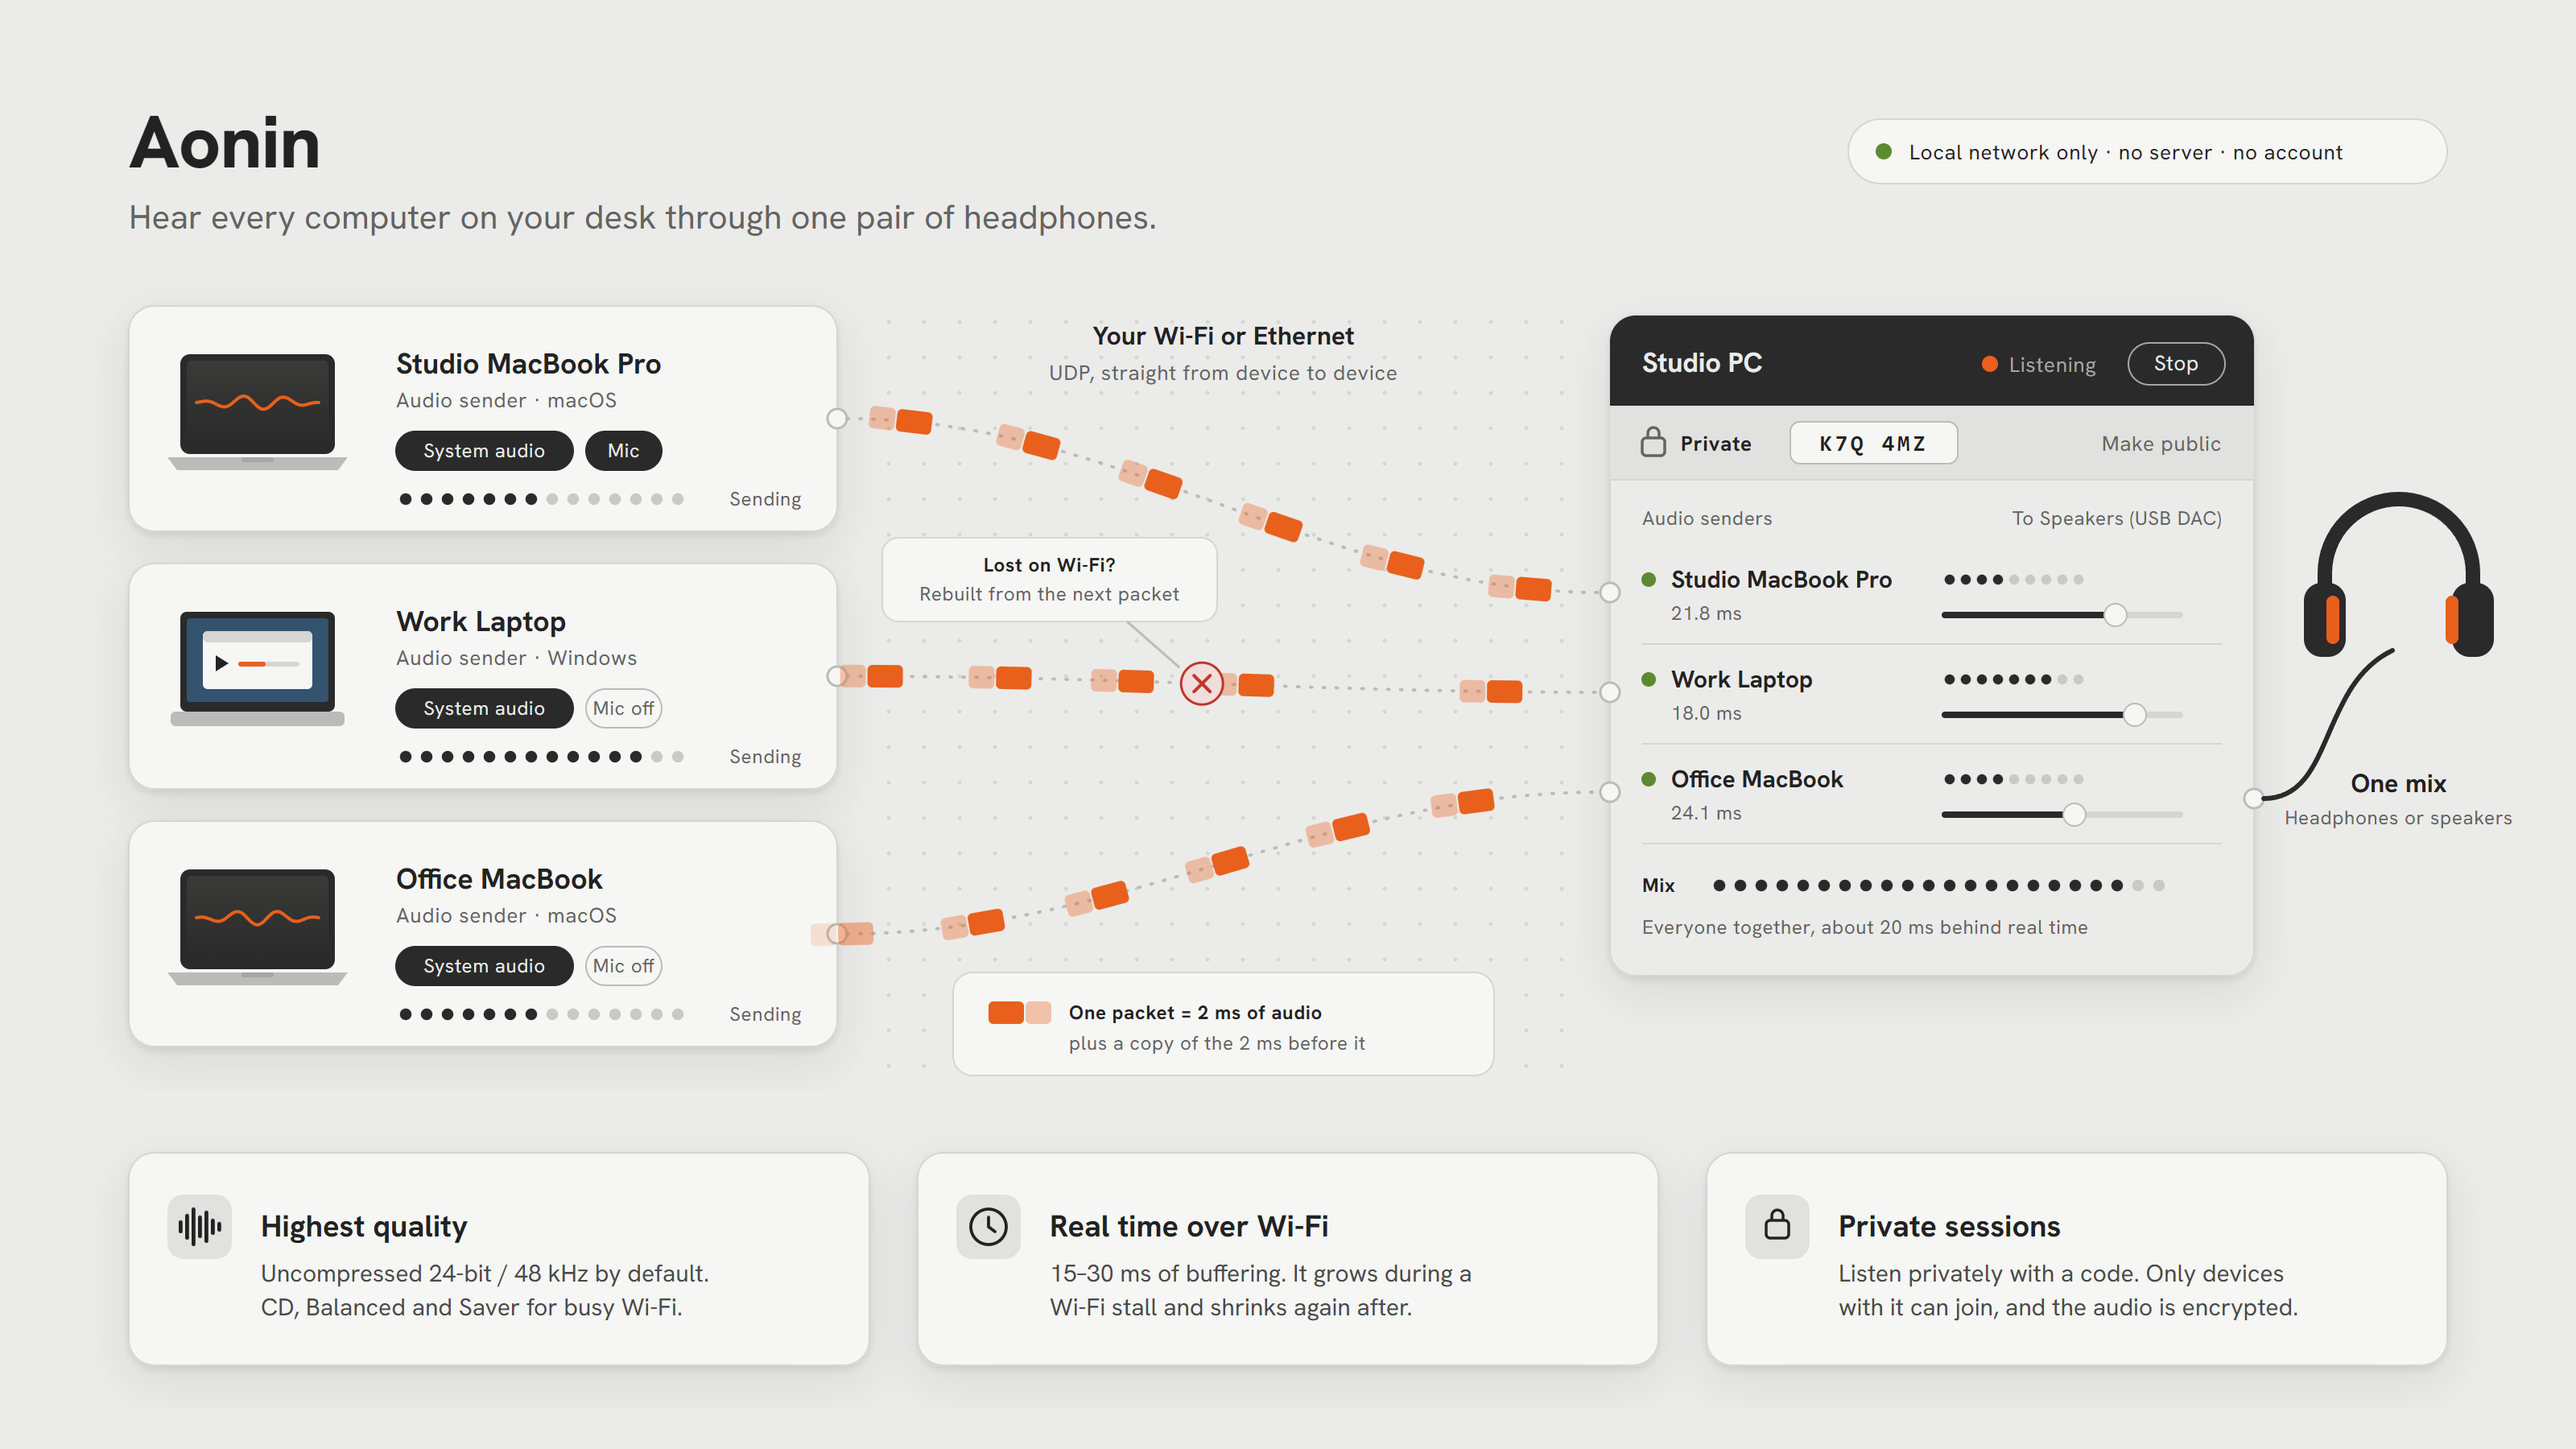
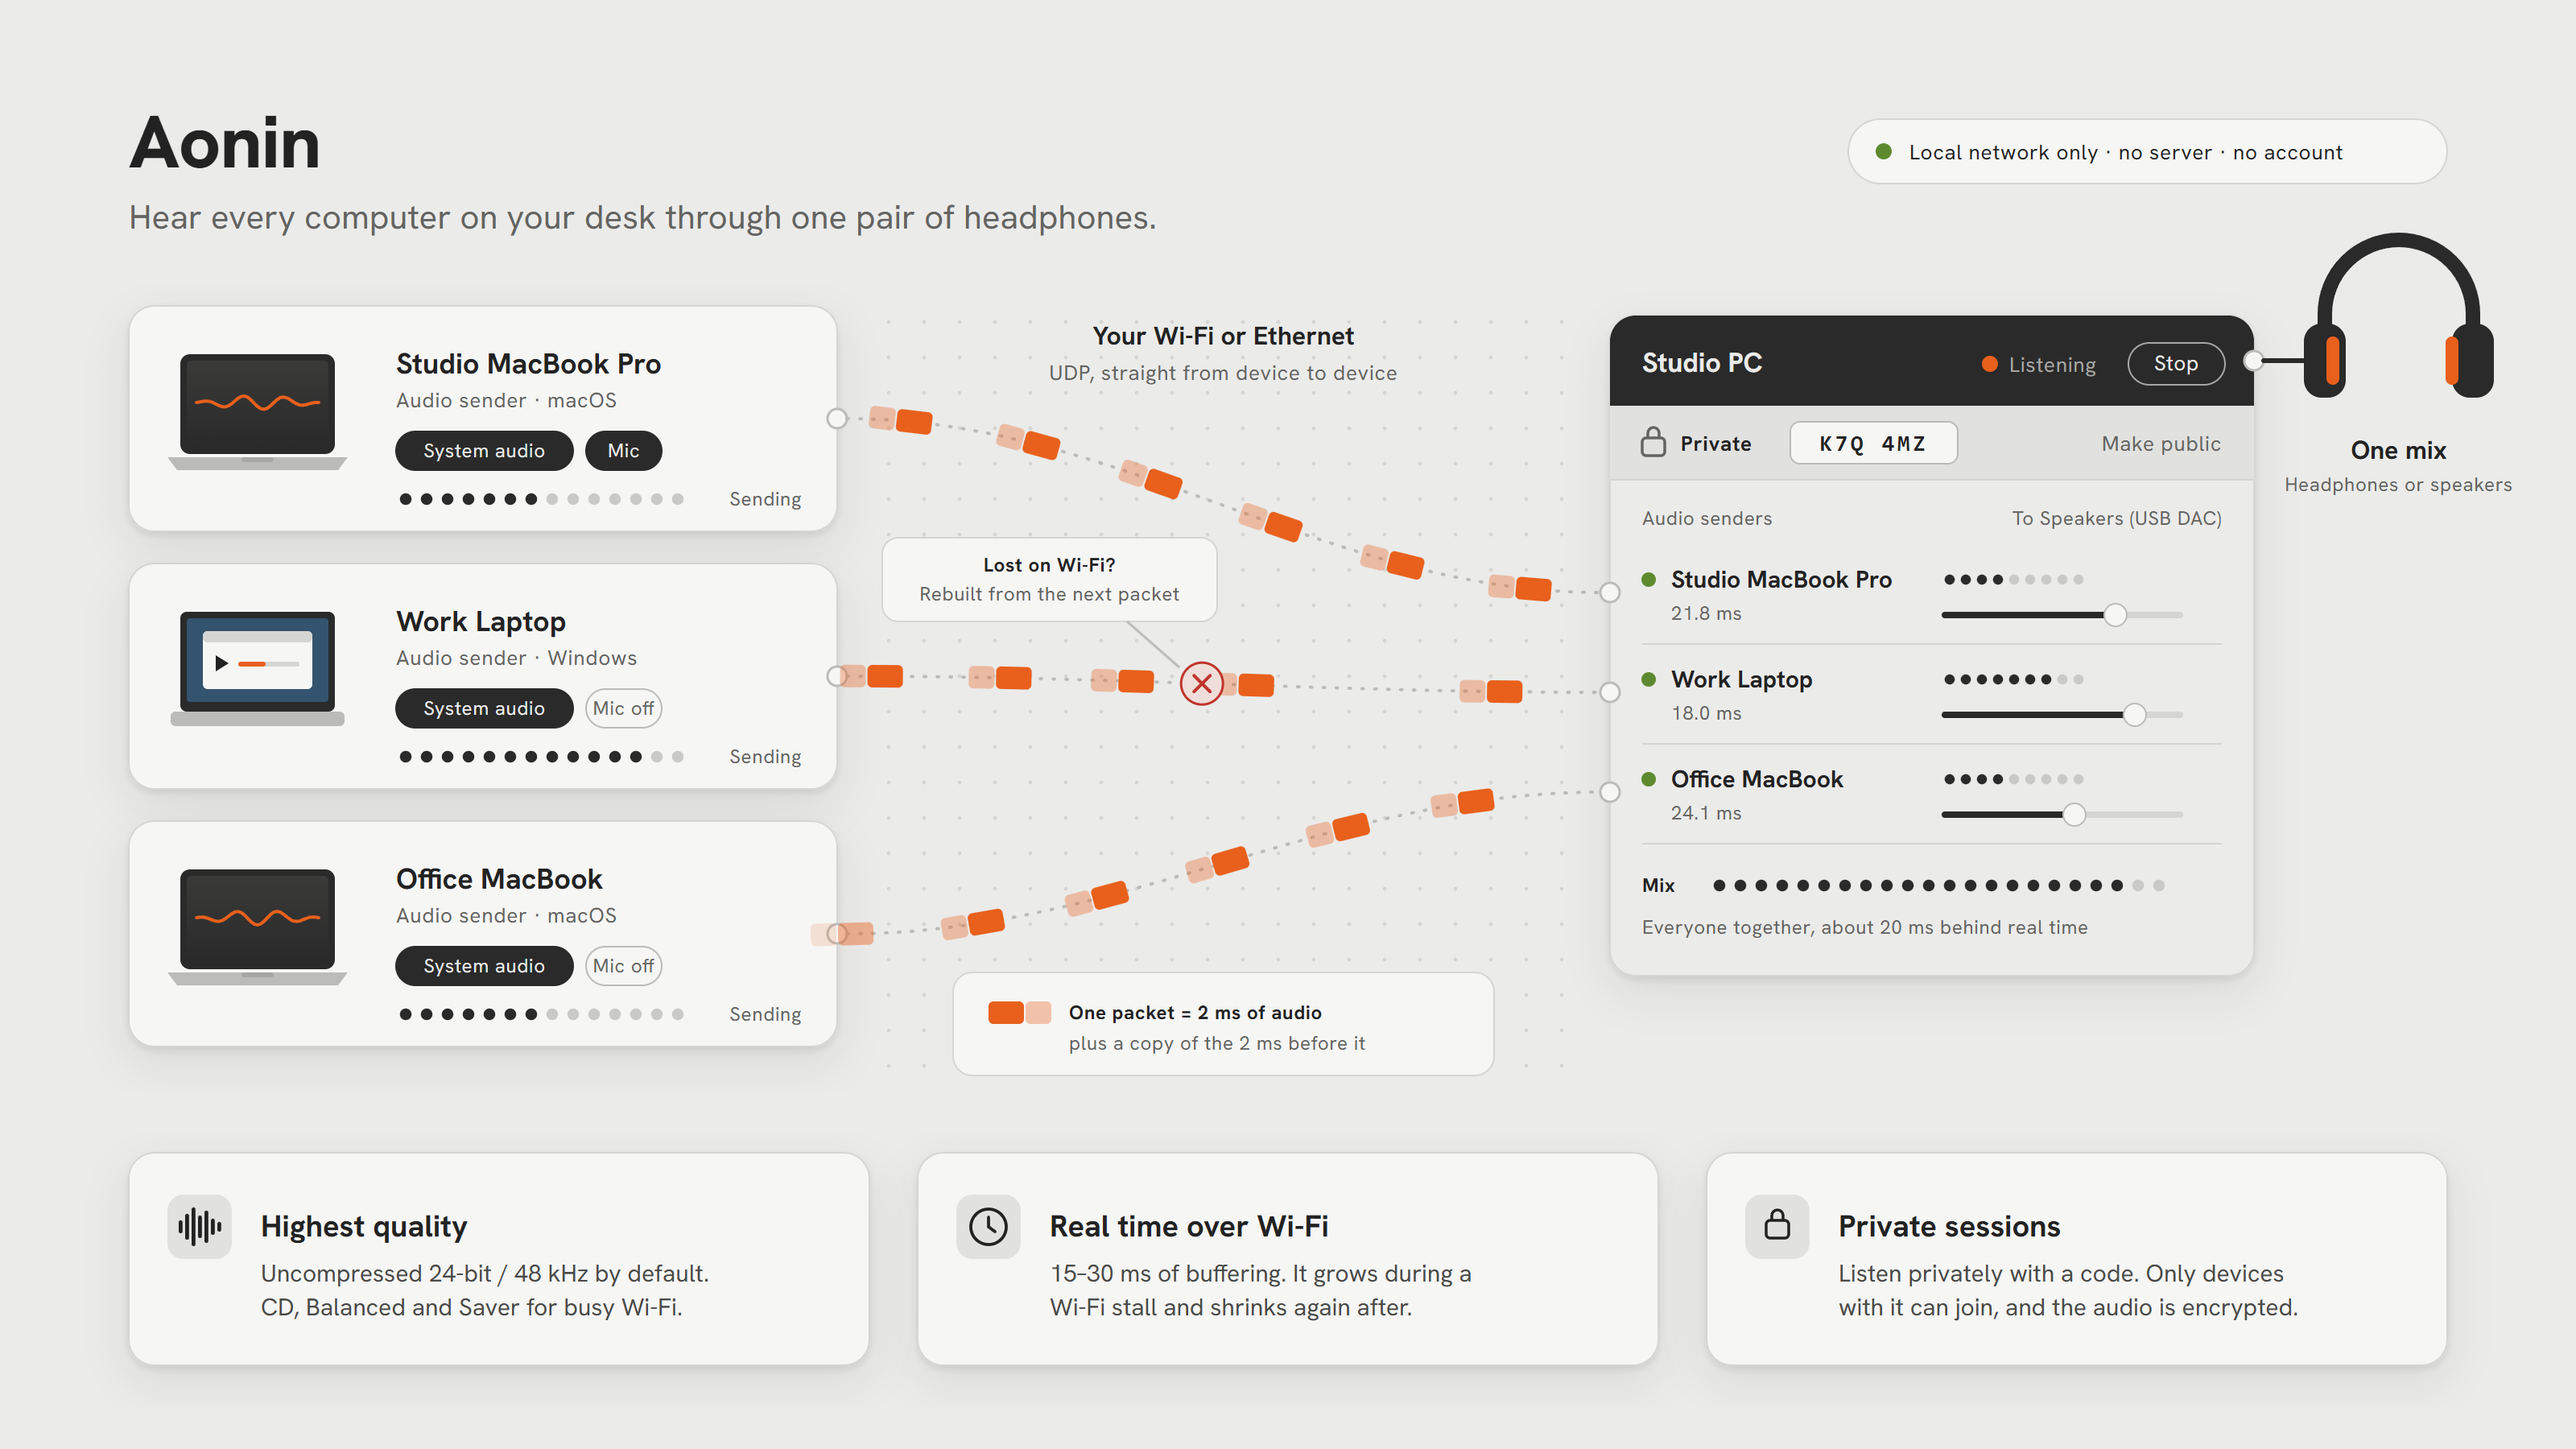
Illustration: the mix leaves from the listener, not a sender row

diff --git a/docs/images/src/how-it-works.html b/docs/images/src/how-it-works.html
@@ -227,10 +227,11 @@ function lock(g, x, y, color) {
 // ---- cable and headphones ----
 const P = document.getElementById('phones');
 {
-  const ox = LX + LW, oy = LY + 300;
+  // The mix leaves from the listener itself (its strip), not from a sender row.
+  const ox = LX + LW, oy = LY + 28;
   el('circle', { cx: ox, cy: oy, r: 6, fill: C.raised, stroke: C.strong, 'stroke-width': 1.5 }, P);
-  el('path', { d: `M${ox + 6} ${oy} C ${ox + 50} ${oy}, ${ox + 40} ${oy - 70}, ${ox + 86} ${oy - 92}`, fill: 'none', stroke: C.strip, 'stroke-width': 3, 'stroke-linecap': 'round' }, P);
-  const hx = 1490, hy = 360;
+  el('path', { d: `M${ox + 6} ${oy} L${ox + 31} ${oy}`, fill: 'none', stroke: C.strip, 'stroke-width': 3, 'stroke-linecap': 'round' }, P);
+  const hx = 1490, hy = oy - 25;
   // band
   el('path', { d: `M${hx - 46} ${hy + 10} v-14 a46 46 0 0 1 92 0 v14`, fill: 'none', stroke: C.strip, 'stroke-width': 9, 'stroke-linecap': 'round' }, P);
   // cups
@@ -241,8 +242,8 @@ const P = document.getElementById('phones');
   // sound waves
   const waves = el('g', { id: 'waves' }, P);
   for (let i = 0; i < 0; i++) el('path', { d: `M${hx - 20 + i * 0} ${hy + 76 + i * 12} q20 -10 40 0`, fill: 'none', stroke: C.orange, 'stroke-width': 2, 'stroke-linecap': 'round', class: 'wave' }, waves);
-  el('text', { x: hx, y: hy + 132, 'text-anchor': 'middle', class: 't-net' }, P, 'One mix');
-  el('text', { x: hx, y: hy + 152, 'text-anchor': 'middle', class: 't-small' }, P, 'Headphones or speakers');
+  el('text', { x: hx, y: hy + 86, 'text-anchor': 'middle', class: 't-net' }, P, 'One mix');
+  el('text', { x: hx, y: hy + 106, 'text-anchor': 'middle', class: 't-small' }, P, 'Headphones or speakers');
 }
 
 // ---- features ----
